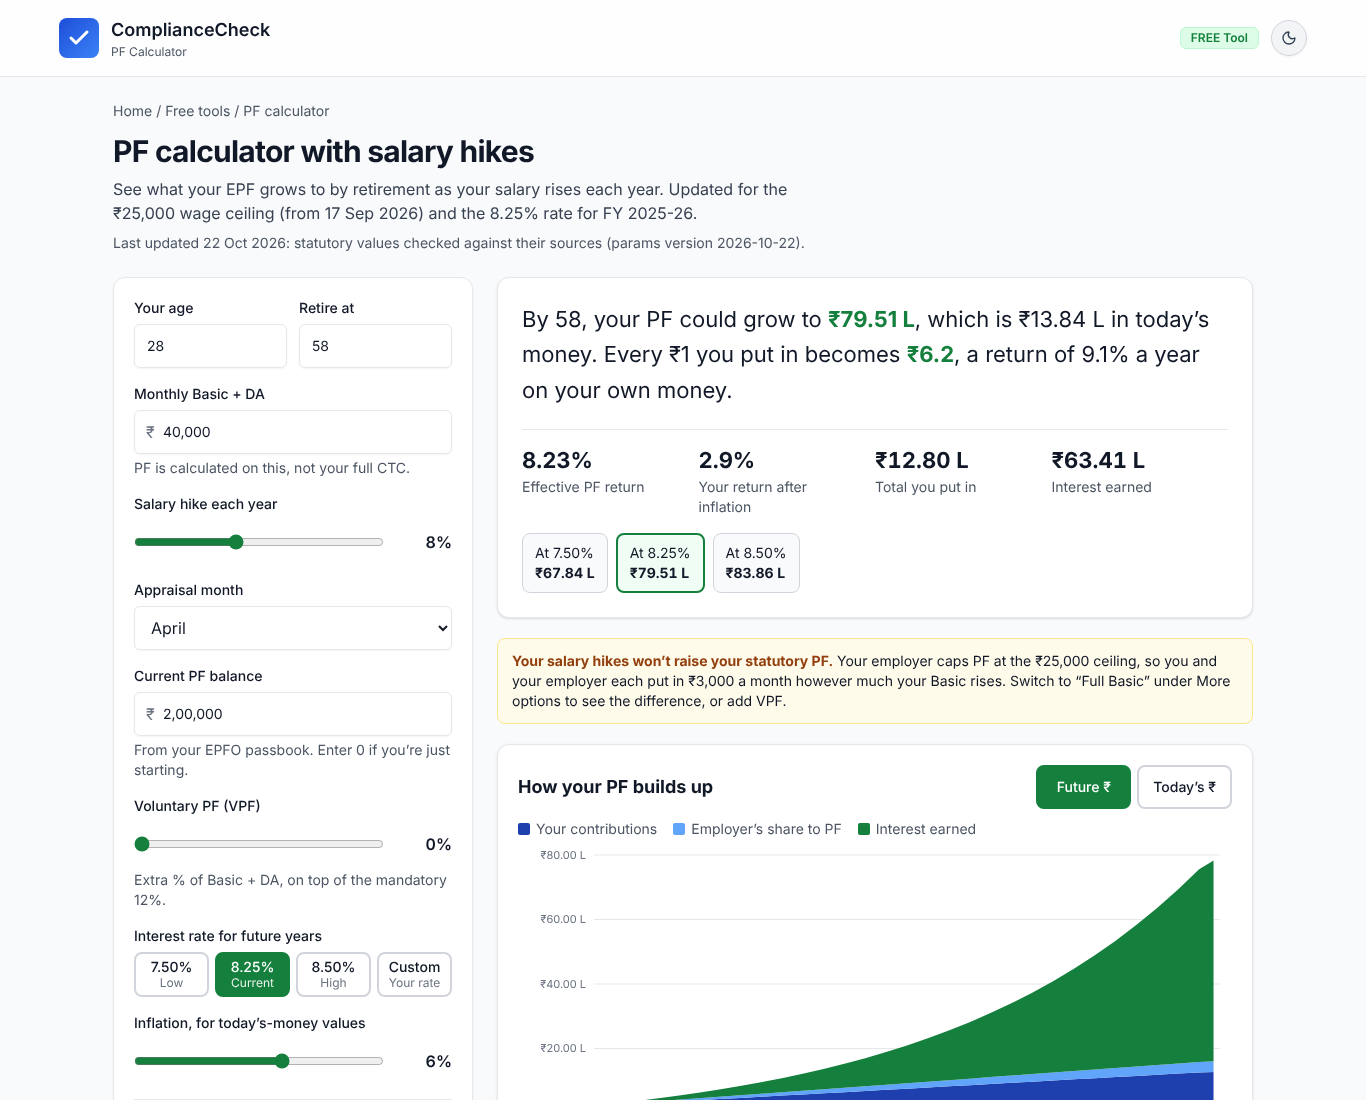
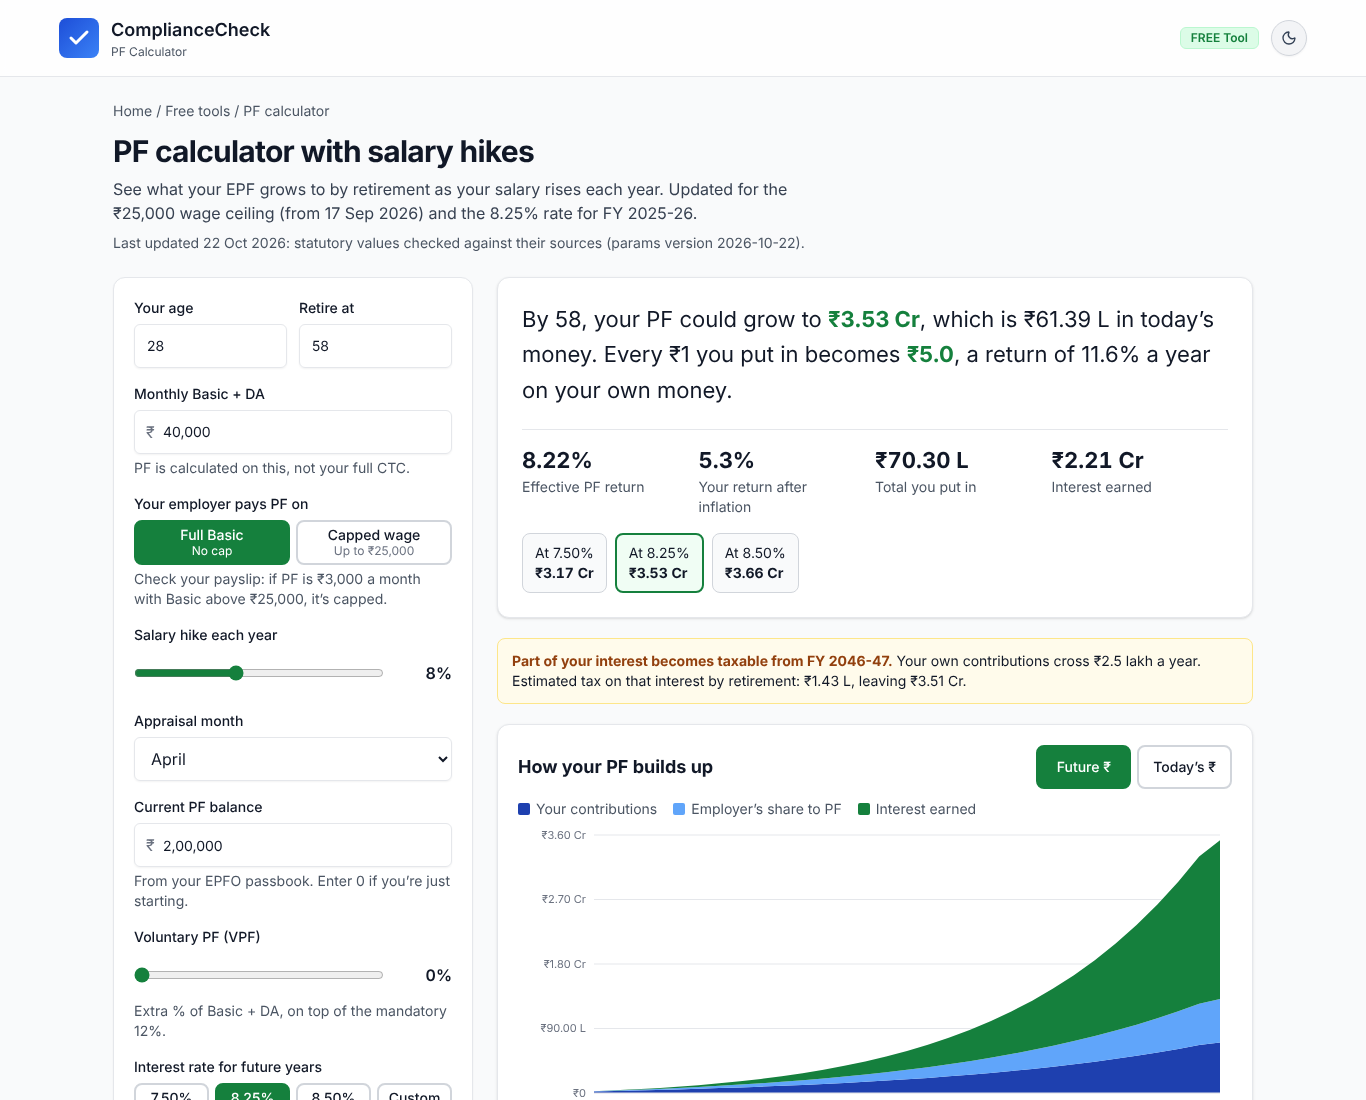
PF calculator: show the PF basis choice up front and default to Full Basic
Move "Your employer pays PF on" out of More options to sit under
Monthly Basic + DA, with Full Basic listed first and selected by
default. The cap-freeze callout now points to the toggle "above".

Claude-Session: https://claude.ai/code/session_01NkcxV8cNGky2sYBrDjoXTK

diff --git a/src/app/calculator/pf/PfCalculator.tsx b/src/app/calculator/pf/PfCalculator.tsx
@@ -513,6 +513,19 @@ export function PfCalculator({ initialState, start, loaded, hasSharedState, isLo
           {numberField('retirementAge', 'Retire at', 45, 60)}
         </div>
         {moneyField('basic', 'Monthly Basic + DA', 'PF is calculated on this, not your full CTC.')}
+        <div>
+          <Segmented
+            label="Your employer pays PF on"
+            columns={2}
+            value={form.basis}
+            onChange={(v) => setField('basis', v)}
+            options={[
+              { value: 'actual', label: 'Full Basic', sub: 'No cap' },
+              { value: 'capped', label: 'Capped wage', sub: `Up to ${inr(facts.ceiling)}` },
+            ]}
+          />
+          <p className={hintCls}>Check your payslip: if PF is {inr(facts.maxEe)} a month with Basic above {inr(facts.ceiling)}, it’s capped.</p>
+        </div>
         {slider('hikePct', 'Salary hike each year', 0, 20, 0.5)}
         <div>
           <label htmlFor={`${uid}-month`} className={labelCls}>Appraisal month</label>
@@ -554,19 +567,6 @@ export function PfCalculator({ initialState, start, loaded, hasSharedState, isLo
           }}>
           <summary className="flex min-h-[44px] cursor-pointer items-center font-semibold">More options</summary>
           <div className="mt-2 space-y-4">
-            <div>
-              <Segmented
-                label="Your employer pays PF on"
-                columns={2}
-                value={form.basis}
-                onChange={(v) => setField('basis', v)}
-                options={[
-                  { value: 'capped', label: 'Capped wage', sub: `Up to ${inr(facts.ceiling)}` },
-                  { value: 'actual', label: 'Full Basic', sub: 'No cap' },
-                ]}
-              />
-              <p className={hintCls}>Check your payslip: if PF is {inr(facts.maxEe)} a month with Basic above {inr(facts.ceiling)}, it’s capped.</p>
-            </div>
             <label className="flex min-h-[44px] items-start gap-3 text-sm">
               <input type="checkbox" className="mt-0.5 h-5 w-5 flex-none accent-green-700" checked={form.epsMember} onChange={(e) => setField('epsMember', e.target.checked)} />
               <span>I’m in the Employees’ Pension Scheme (EPS). Most people are; new joiners with wages above the ceiling are not.</span>

diff --git a/tests/pf-calculator.spec.ts b/tests/pf-calculator.spec.ts
@@ -39,11 +39,14 @@ test.describe('PF calculator', () => {
     await expect(page.getByTestId('pf-year-table').locator('tbody tr')).toHaveCount(31)
     await expect(page.getByTestId('pf-last-updated')).toContainText('Last updated')
     await expect(page.getByRole('cell', { name: 'Future rate (your choice)' })).toBeVisible()
-    expect(await callouts(page)).toEqual(['cap_freeze'])
+    // Full Basic is the default and sits outside More options.
+    await expect(page.getByRole('button', { name: /Full Basic/ })).toHaveAttribute('aria-pressed', 'true')
+    await expect(page.getByRole('button', { name: /Full Basic/ })).toBeVisible()
+    expect(await callouts(page)).not.toContain('cap_freeze')
   })
 
   test('hike and appraisal month update the table', async ({ page }) => {
-    await open(page, '?bs=actual')
+    await open(page)
     const before = await tableRow(page, 1).innerText()
     await page.getByLabel('Salary hike each year').fill('15')
     await expect(tableRow(page, 1)).not.toHaveText(before)
@@ -54,12 +57,12 @@ test.describe('PF calculator', () => {
 
   test('capped vs full Basic shows and hides the cap-freeze callout', async ({ page }) => {
     await open(page)
-    expect(await callouts(page)).toContain('cap_freeze')
-    await openMoreOptions(page)
-    await page.getByRole('button', { name: /Full Basic/ }).click()
     await expect(page.locator('[data-callout="cap_freeze"]')).toHaveCount(0)
     await page.getByRole('button', { name: /Capped wage/ }).click()
     await expect(page.locator('[data-callout="cap_freeze"]')).toHaveCount(1)
+    await expect(page).toHaveURL(/bs=capped/)
+    await page.getByRole('button', { name: /Full Basic/ }).click()
+    await expect(page.locator('[data-callout="cap_freeze"]')).toHaveCount(0)
   })
 
   test('EPS ceiling reading changes the pension', async ({ page }) => {
@@ -143,7 +146,7 @@ test.describe('PF calculator', () => {
     // More options opens from the keyboard.
     await page.locator('summary', { hasText: 'More options' }).focus()
     await page.keyboard.press('Enter')
-    await expect(page.getByRole('button', { name: /Full Basic/ })).toBeVisible()
+    await expect(page.getByLabel('EPS service so far (years)')).toBeVisible()
   })
 
   test('inline validation is announced and linked', async ({ page }) => {

diff --git a/tests/unit/epf-view.test.ts b/tests/unit/epf-view.test.ts
@@ -58,7 +58,17 @@ describe('URL state', () => {
 
 describe('view helpers', () => {
   const facts = factsFrom(FALLBACK_PARAMS, FALLBACK_LOADED.rateRows)
-  const res = project(toProjectInput(DEFAULT_STATE, start), FALLBACK_PARAMS)
+  // The prototype's default employer basis was 'capped'; the page now defaults to Full Basic.
+  const CAPPED = { ...DEFAULT_STATE, basis: 'capped' as const }
+  const res = project(toProjectInput(CAPPED, start), FALLBACK_PARAMS)
+
+  it('defaults to Full Basic (no cap freeze), with the capped view one toggle away', () => {
+    expect(DEFAULT_STATE.basis).toBe('actual')
+    const full = project(toProjectInput(DEFAULT_STATE, start), FALLBACK_PARAMS)
+    expect(full.flags.capFreeze).toBe(false)
+    expect(full.corpus).toBeGreaterThan(res.corpus)
+    expect(callouts(full, DEFAULT_STATE, facts).map((x) => x.id)).not.toContain('cap_freeze')
+  })
 
   it('formats Indian numbers', () => {
     expect(inr(1234567)).toBe('₹12,34,567')
@@ -78,11 +88,11 @@ describe('view helpers', () => {
     const h = headline(res, 58)
     expect(headlineText(h)).toBe('By 58, your PF could grow to ₹79.51 L, which is ₹13.84 L in today’s money. Every ₹1 you put in becomes ₹6.2, a return of 9.1% a year on your own money.')
     expect(stats(res).map((s) => s.label)).toEqual(['Effective PF return', 'Your return after inflation', 'Total you put in', 'Interest earned'])
-    const c = callouts(res, DEFAULT_STATE, facts)
+    const c = callouts(res, CAPPED, facts)
     expect(c.map((x) => x.id)).toEqual(['cap_freeze'])
     expect(c[0].body).toContain('₹25,000 ceiling')
     expect(c[0].body).toContain('₹3,000 a month')
-    expect(callouts(res, { ...DEFAULT_STATE, retirementAge: 60 }, facts).map((x) => x.id)).toContain('eps_stops')
+    expect(callouts(res, { ...CAPPED, retirementAge: 60 }, facts).map((x) => x.id)).toContain('eps_stops')
   })
 
   it('renders table rows, chart points and CSV', () => {

diff --git a/src/lib/calculators/epf/view.ts b/src/lib/calculators/epf/view.ts
@@ -159,7 +159,7 @@ export function callouts(res: ProjectionResult, state: PfState, facts: PfFacts):
     out.push({
       id: 'cap_freeze',
       title: 'Your salary hikes won’t raise your statutory PF.',
-      body: `Your employer caps PF at the ${inr(facts.ceiling)} ceiling, so you and your employer each put in ${inr(res.first.ee - res.first.vpf)} a month however much your Basic rises. Switch to “Full Basic” under More options to see the difference, or add VPF.`,
+      body: `Your employer caps PF at the ${inr(facts.ceiling)} ceiling, so you and your employer each put in ${inr(res.first.ee - res.first.vpf)} a month however much your Basic rises. Switch to “Full Basic” above to see the difference, or add VPF.`,
     })
   }
   if (res.flags.taxThresholdFY) {

diff --git a/src/lib/calculators/epf/url-state.ts b/src/lib/calculators/epf/url-state.ts
@@ -44,7 +44,7 @@ export const DEFAULT_STATE: PfState = {
   scenario: 'base',
   customRate: 8,
   inflationPct: 6,
-  basis: 'capped',
+  basis: 'actual',
   epsMember: true,
   pastEpsYears: 4,
   reduced: false,
